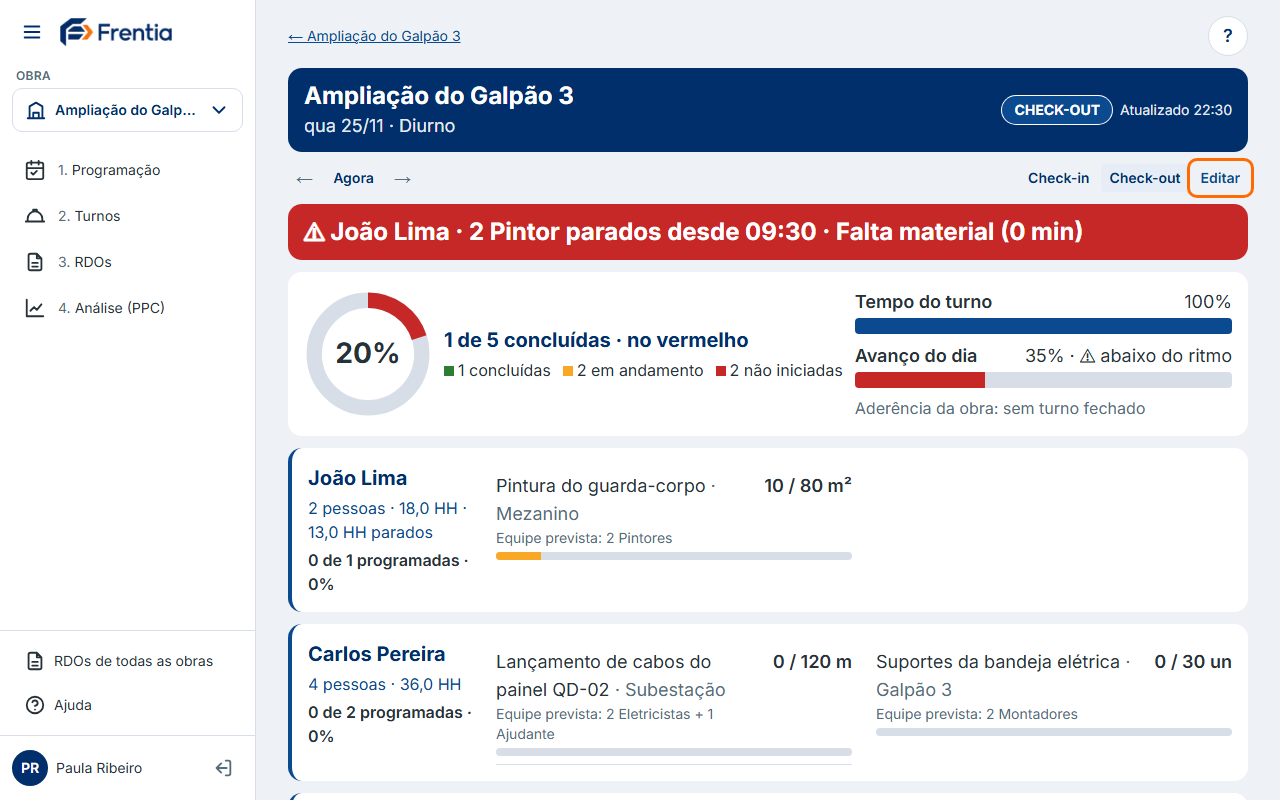
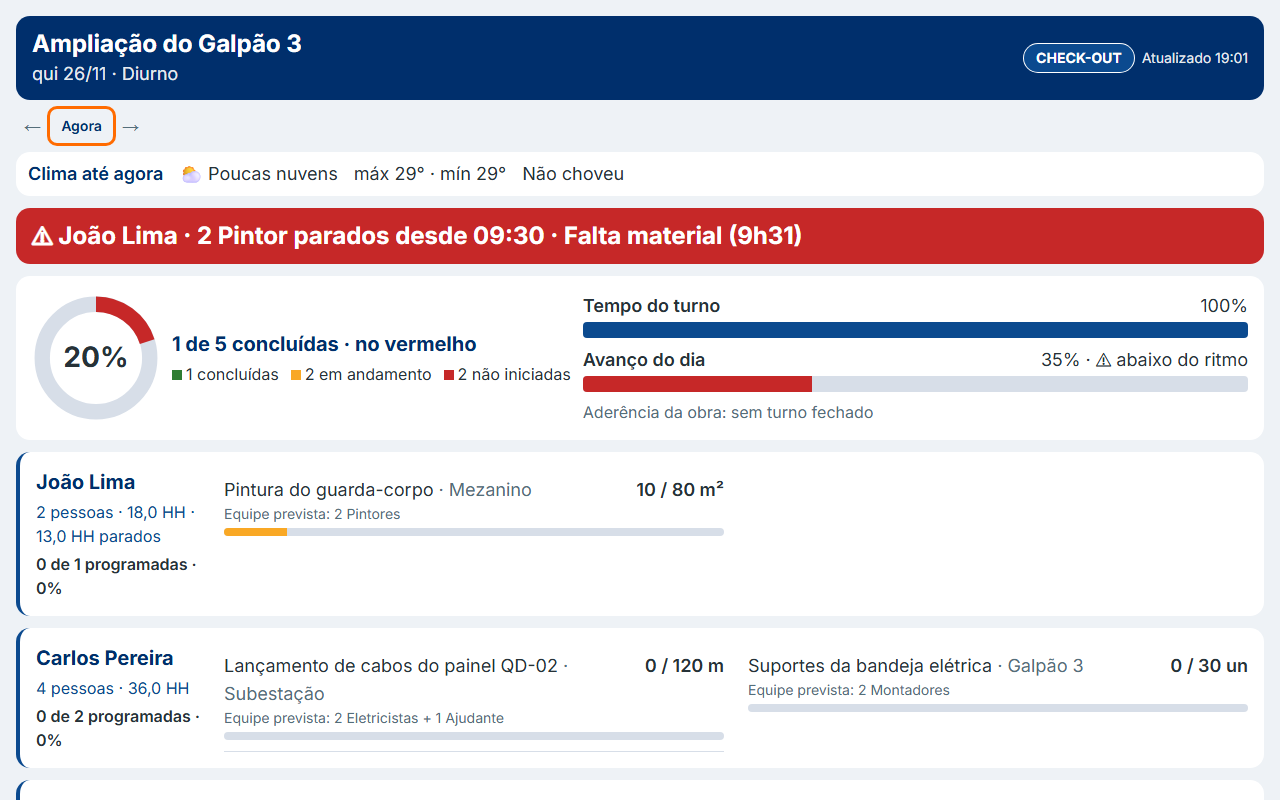
docs(manual): quadro único, clima no quadro e capturas

diff --git a/lib/ajuda/conteudo/quadro-tv.ts b/lib/ajuda/conteudo/quadro-tv.ts
@@ -3,14 +3,14 @@ import type { Capitulo } from "../tipos";
 export const quadroTv: Capitulo = {
   slug: "quadro-tv",
   titulo: "Quadro na TV",
-  resumo: "Deixe o quadro do turno numa TV do canteiro, sem login, e troque o link quando precisar.",
+  resumo: "O quadro do turno abre só pelo link, sem login: na TV do canteiro, no celular do gestor ou no seu computador.",
   noIndice: false,
   passos: [
     {
       id: "link",
       titulo: "Abra o quadro na TV",
       texto: [
-        "Na página da obra, em \"Link do quadro (TV / gestor)\", use \"Copiar\" e abra o link no navegador da TV ou do computador ligado a ela. Não precisa de login.",
+        "Na página da obra, em \"Link do quadro (TV / gestor)\", use \"Copiar\" e abra o link no navegador da TV ou do computador ligado a ela. Não precisa de login. O botão \"Quadro\" da obra e o \"Ver quadro\" do turno abrem esse mesmo link: existe um quadro só.",
         "O quadro mostra sozinho o turno de hoje (diurno, ou noturno quando o diurno já fechou) e se atualiza a cada 30 segundos. As setas mostram o turno anterior e o seguinte; \"Agora\" volta para o turno atual.",
       ],
       captura: {
@@ -21,12 +21,21 @@ export const quadroTv: Capitulo = {
     },
     {
       id: "visoes",
-      titulo: "Check-in e check-out no quadro",
+      titulo: "Check-in e check-out no mesmo quadro",
       texto: [
-        "Antes de liberar o turno, o quadro mostra o check-in: o que cada equipe vai fazer, a quantidade planejada e o efetivo. Atividade fora da programação aparece com o selo \"EXTRA\".",
-        "Depois de liberar, o quadro continua no check-in até a primeira quantidade ser lançada; aí passa ao check-out: realizado sobre planejado, barra de cor, a causa e a observação quando há, e por equipe \"x de y programadas\", pessoas e HH. Use os links \"Check-in\" e \"Check-out\", abaixo do cabeçalho, para trocar de visão.",
+        "Os dois rituais acontecem no mesmo quadro. O selo na barra azul mostra a fase: \"CHECK-IN\" enquanto nenhuma equipe iniciou, \"CHECK-OUT\" a partir da primeira equipe que toca \"Iniciar turno\" (ou do primeiro lançamento). Não há botões para trocar de visão nem para editar.",
+        "No check-in, o quadro mostra o que cada equipe vai fazer, a quantidade planejada e o efetivo. Atividade fora da programação aparece com o selo \"EXTRA\".",
+        "No check-out: realizado sobre planejado, barra de cor, a causa e a observação quando há, e por equipe \"x de y programadas\", pessoas e HH.",
         "No check-out, as equipes que mais precisam de ajuda vêm primeiro: quem está com parada em aberto e, depois, quem tem o menor percentual concluído. A causa aparece em letra maior: \"Causa externa\" (fora do controle da equipe) em marrom e \"Causa interna\" em vermelho. Quem passou da meta ganha o selo \"▲ acima da meta\".",
         "Empréstimo de efetivo aparece dos dois lados: \"+2 Mecânico (de Fernando…)\" em quem recebeu e \"−2 Mecânico (para Francisco…)\" em quem cedeu. No cabeçalho, \"Atualizado HH:MM\" mostra a hora da última atualização.",
+      ],
+    },
+    {
+      id: "clima",
+      titulo: "Resumo do clima",
+      texto: [
+        "Logo abaixo do cabeçalho, o quadro mostra o clima pela cidade da obra: a condição (sol, nuvens, chuva), a máxima e a mínima e a chuva.",
+        "Antes do turno começar aparece a \"Previsão\" do horário do turno, útil para decidir o dia no check-in. Durante o turno, o \"Clima até agora\"; com o turno fechado, o clima registrado no RDO. Obra sem cidade cadastrada não mostra o clima.",
       ],
     },
     {

diff --git a/lib/ajuda/fluxograma.ts b/lib/ajuda/fluxograma.ts
@@ -33,11 +33,12 @@ export const FLUXOGRAMA: FaseFluxo[] = [
         { rotulo: "Novo turno", detalhe: "traz as atividades do dia", ator: "planejador", href: "/ajuda/check-in#novo-turno" },
         { rotulo: "Check-in", detalhe: "confirmar atividades e equipes", ator: "planejador", href: "/ajuda/check-in#efetivo" },
         { rotulo: "Liberar para campo", detalhe: "envia o link", ator: "planejador", href: "/ajuda/check-in#liberar" },
-        { rotulo: "TV: check-in", ator: "tv", href: "/ajuda/quadro-tv#visoes" },
+        { rotulo: "TV: check-in", detalhe: "até a 1ª equipe iniciar", ator: "tv", href: "/ajuda/quadro-tv#visoes" },
       ],
       [
         { rotulo: "\"Quem é você?\"", ator: "campo", href: "/ajuda/campo#escolher-nome" },
         { rotulo: "Iniciar turno", detalhe: "marca a hora de início", ator: "campo", href: "/ajuda/campo#iniciar" },
+        { rotulo: "TV: check-out", detalhe: "a partir do início", ator: "tv", href: "/ajuda/quadro-tv#visoes" },
         { rotulo: "Lançar execução e efetivo", ator: "campo", href: "/ajuda/campo#lancar" },
         { rotulo: "Parada · serviço extra · adiantar", detalhe: "quando acontece", ator: "campo", href: "/ajuda/campo#parada" },
         { rotulo: "Terminei minha parte", detalhe: "todos terminaram = enviado", ator: "campo", href: "/ajuda/campo#avisar" },
@@ -46,7 +47,6 @@ export const FLUXOGRAMA: FaseFluxo[] = [
         { rotulo: "Check-out", detalhe: "confere, informa causas", ator: "planejador", href: "/ajuda/fechar-turno#check-out" },
         { rotulo: "Fechar o turno", ator: "planejador", href: "/ajuda/fechar-turno#fechar" },
         { rotulo: "RDO gerado", ator: "planejador", href: "/ajuda/fechar-turno#rdo" },
-        { rotulo: "TV: check-out", ator: "tv", href: "/ajuda/quadro-tv#visoes" },
       ],
     ],
     nota: "Dá para criar o turno sem programar a semana; as atividades entram à mão.",

diff --git a/lib/ajuda/conteudo/durante-o-turno.ts b/lib/ajuda/conteudo/durante-o-turno.ts
@@ -10,12 +10,12 @@ export const duranteOTurno: Capitulo = {
       id: "quadro",
       titulo: "Acompanhe pelo quadro",
       texto: [
-        "Enquanto o campo lança, abra \"Quadro\" na página da obra (ou \"Ver quadro\" no turno). Cada responsável tem uma faixa com o efetivo e as atividades, com barra verde (concluída), amarela (parcial) ou vermelha (não iniciada).",
+        "Enquanto o campo lança, abra \"Quadro\" na página da obra (ou \"Ver quadro\" no turno): é o mesmo quadro da TV, pelo link, sem login. Cada responsável tem uma faixa com o efetivo e as atividades, com barra verde (concluída), amarela (parcial) ou vermelha (não iniciada).",
         "O quadro se atualiza sozinho a cada 30 segundos.",
       ],
       captura: {
         alt: "Quadro do turno com uma faixa por responsável e o andamento das atividades",
-        alvo: { papel: "link", nome: "Editar" },
+        alvo: { papel: "link", nome: "Agora" },
         dispositivo: "computador",
       },
     },

diff --git a/lib/ajuda/conteudo/check-in.ts b/lib/ajuda/conteudo/check-in.ts
@@ -53,8 +53,8 @@ export const checkIn: Capitulo = {
       id: "liberar",
       titulo: "Libere o turno ao campo",
       texto: [
-        "Com tudo conferido, clique em \"Liberar para campo\". Nesse momento o check-in fica registrado: é a foto oficial do que foi combinado, que aparece no histórico do turno (\"Check-in registrado\") e no quadro.",
-        "Use \"Ver quadro\" para ver o check-in como ele aparece na TV.",
+        "Com tudo conferido, clique em \"Liberar para campo\". O quadro continua em \"CHECK-IN\" até a primeira equipe iniciar.",
+        "Use \"Ver quadro\" para abrir o quadro do turno, o mesmo da TV.",
       ],
       captura: {
         alt: "Turno pronto para liberar, com o botão Liberar para campo",

diff --git a/lib/ajuda/novidades.ts b/lib/ajuda/novidades.ts
@@ -3,6 +3,11 @@ import type { Novidade } from "./tipos";
 
 export const NOVIDADES: Novidade[] = [
   {
+    data: "2026-11-26",
+    texto: "Quadro único: abre só pelo link, sem login, e o check-in e o check-out acontecem no mesmo quadro. O selo na barra azul troca sozinho para \"CHECK-OUT\" quando a primeira equipe inicia. E o quadro ganhou o resumo do clima, com a previsão antes do turno.",
+    href: "/ajuda/quadro-tv#visoes",
+  },
+  {
     data: "2026-11-25",
     texto: "Clima automático: o RDO registra sozinho o tempo durante o turno (leitura de 2 em 2 horas, média, máxima, mínima e chuva), pela cidade da obra. Ninguém precisa mais lançar o clima.",
     href: "/ajuda/fechar-turno#clima",

diff --git a/tests/manual/capturas.spec.ts b/tests/manual/capturas.spec.ts
@@ -143,7 +143,7 @@ test("capturas do manual", async ({ browser, page: pl, request }) => {
   await pl.waitForURL(/\/turnos\/[0-9a-f-]{36}$/);
   const turnoId = /\/turnos\/([0-9a-f-]{36})/.exec(pl.url())![1];
   const turnoUrl = `${obraUrl}/turnos/${turnoId}`;
-  await aquecer([turnoUrl, `${turnoUrl}/checkin`, `${obraUrl}/quadro?turno=${turnoId}`]);
+  await aquecer([turnoUrl, `${obraUrl}/quadro?turno=${turnoId}`]);
   const efetivo = [
     { funcao: "Encanador", quantidade: 3, responsavel_id: ids["Ana Souza"] },
     { funcao: "Pedreiro", quantidade: 2, responsavel_id: ids["Ana Souza"] },
